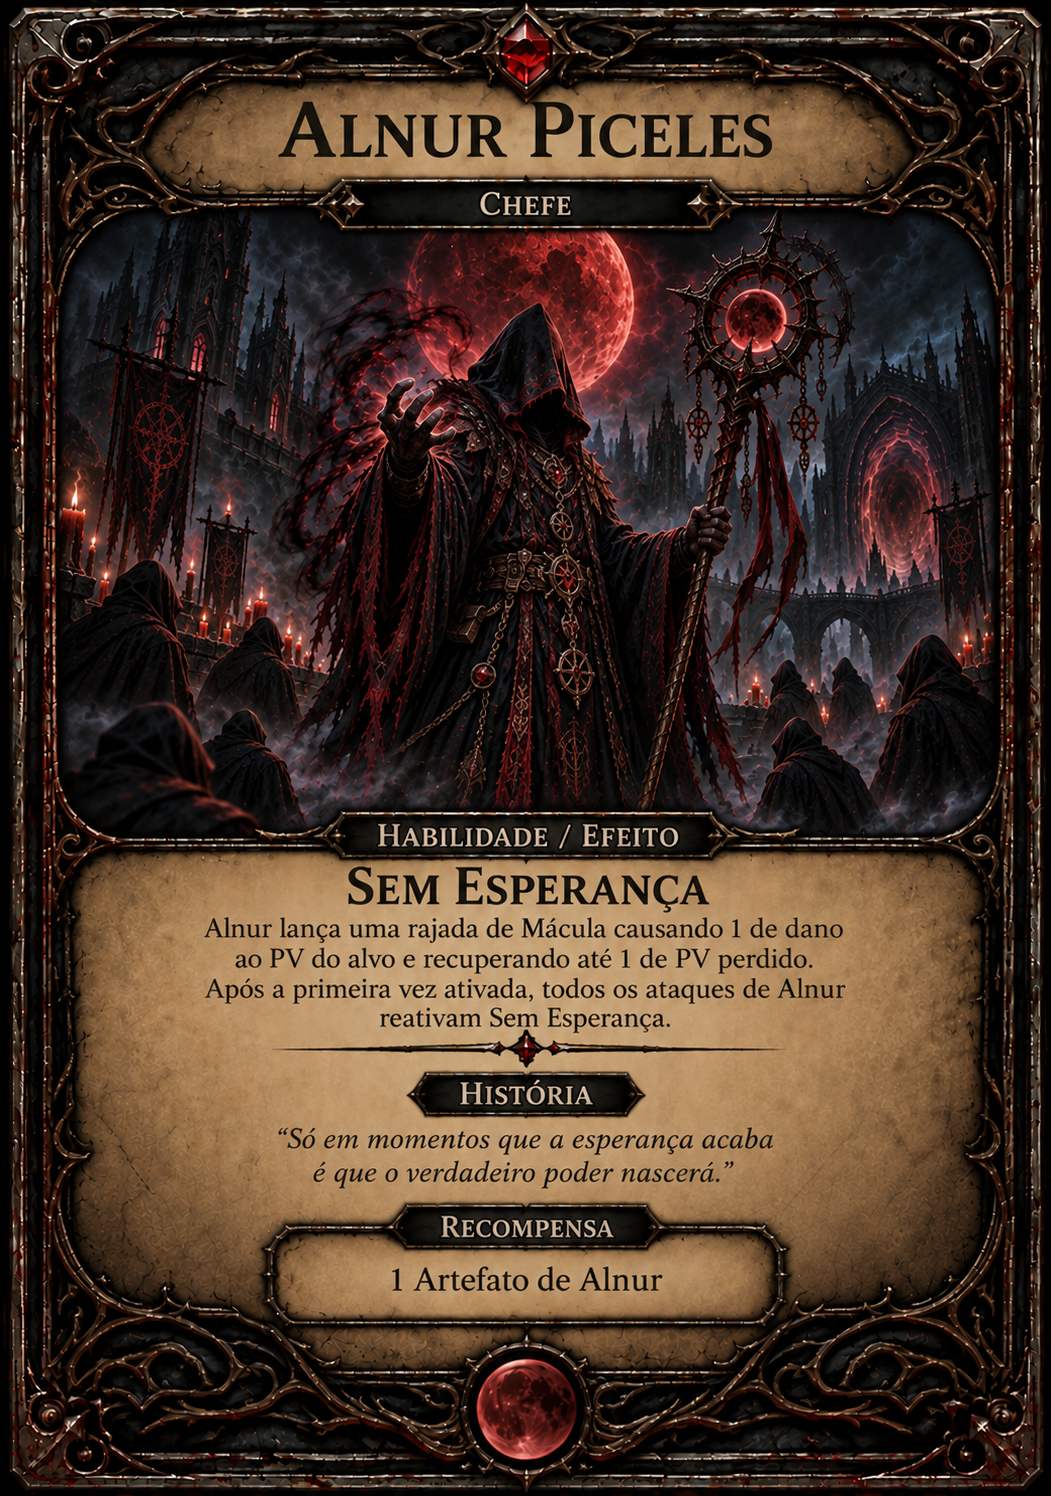
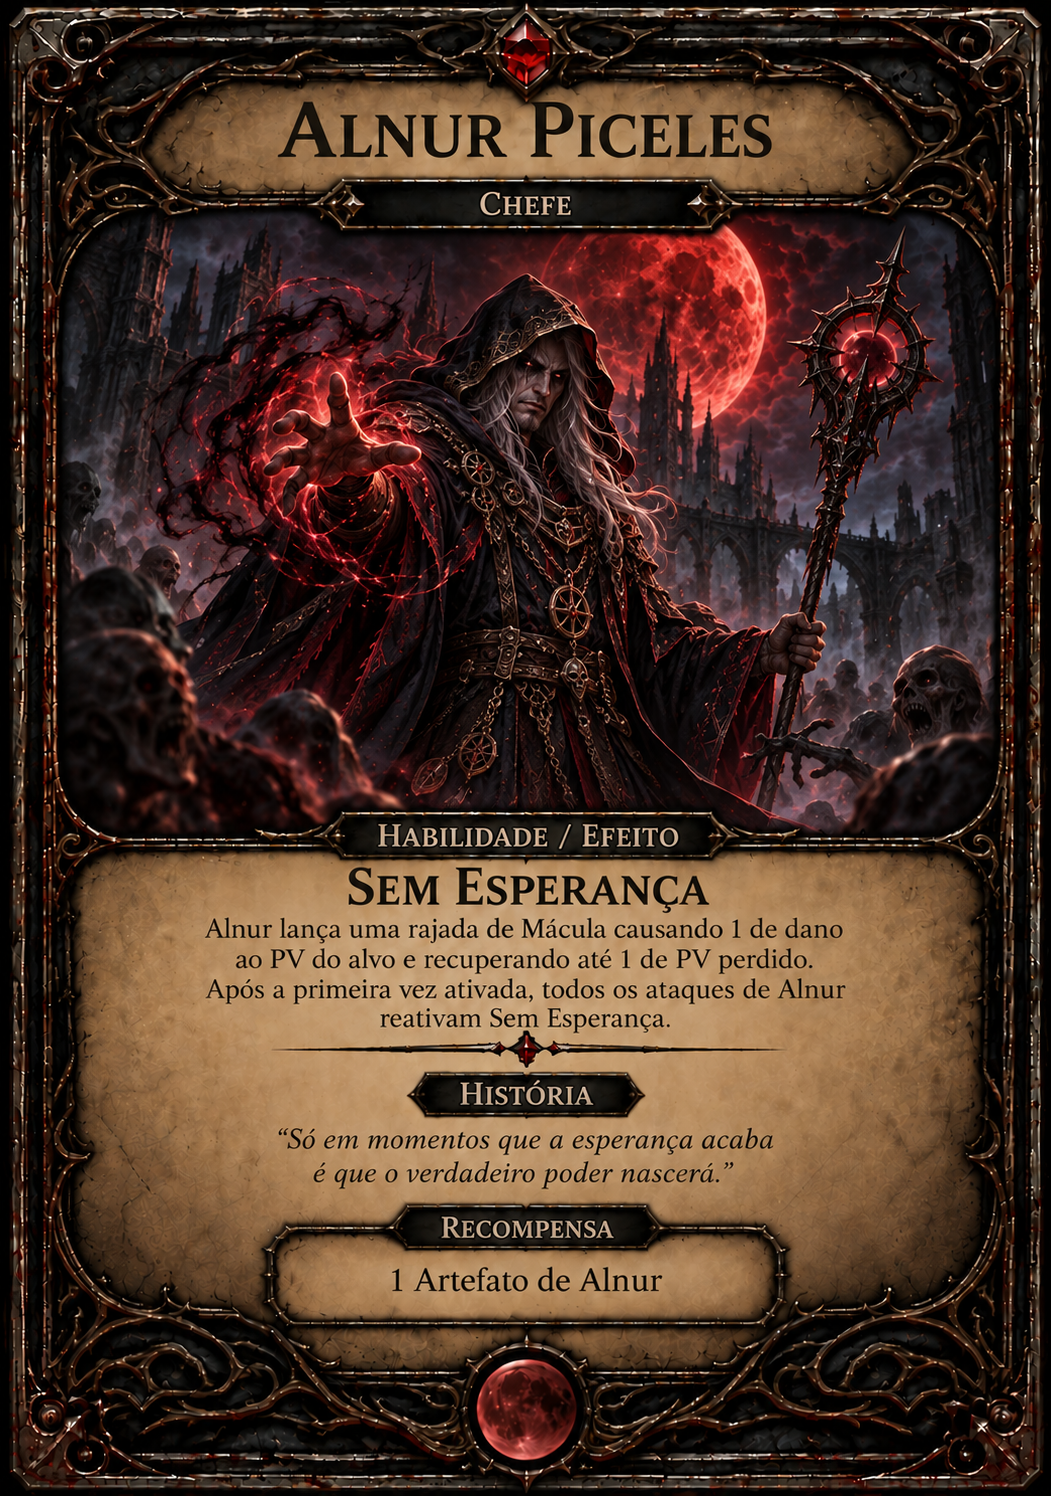
Alteração Alnur e Descobertas

diff --git a/ato1.html b/ato1.html
@@ -2356,10 +2356,10 @@
                 <div class="menu-item-container">
                     <button class="btn-menu-rodape" onclick="alternarDropup(event, 'drop-discipulos')">Alnur e Discípulos</button>
                     <ul id="drop-discipulos" class="lista-dropup">
-                        <li onclick="mostrarImagemGrupo('./assets/cartas/Alnur e Discípulos/Alnur.png')">Alnur</li>
-                        <li onclick="mostrarImagemGrupo('./assets/cartas/Alnur e Discípulos/Aliatrix.jpg')">Aliatrix</li>
-                        <li onclick="mostrarImagemGrupo('./assets/cartas/Alnur e Discípulos/Delgron.jpg')">Delgron</li>
-                        <li onclick="mostrarImagemGrupo('./assets/cartas/Alnur e Discípulos/Ravandra.jpg')">Ravandra</li>
+                        <li onclick="mostrarImagemGrupo('./assets/ATO1/cartas/Alnur e Discípulos/Alnur.png')">Alnur</li>
+                        <li onclick="mostrarImagemGrupo('./assets/ATO1/cartas/Alnur e Discípulos/Aliatrix.jpg')">Aliatrix</li>
+                        <li onclick="mostrarImagemGrupo('./assets/ATO1/cartas/Alnur e Discípulos/Delgron.jpg')">Delgron</li>
+                        <li onclick="mostrarImagemGrupo('./assets/ATO1/cartas/Alnur e Discípulos/Ravandra.jpg')">Ravandra</li>
 
                     </ul>
                 </div>
@@ -2405,24 +2405,24 @@
                 <div class="menu-item-container">
                     <button class="btn-menu-rodape" onclick="alternarDropup(event, 'drop-Descobertas')">Descobertas</button>
                     <ul id="drop-Descobertas" class="lista-dropup">
-                        <li onclick="mostrarImagemGrupo('./assets/cartas/Descobertas/bau_encantado.png')">Baú Encantado</li>
-                        <li onclick="mostrarImagemGrupo('./assets/cartas/Descobertas/caes_selvagens.png')">Cães Selvagens</li>
-                        <li onclick="mostrarImagemGrupo('./assets/cartas/Descobertas/carga_na_estrada.png')">Carga na Estrada</li>
-                        <li onclick="mostrarImagemGrupo('./assets/cartas/Descobertas/caverna_inexplorada.png')">Caverna Inexplorada</li>
-                        <li onclick="mostrarImagemGrupo('./assets/cartas/Descobertas/caverna_submersa.png')">Caverna Submersa</li>
-                        <li onclick="mostrarImagemGrupo('./assets/cartas/Descobertas/covil_de_monstros.png')">Covil de Monstros</li>
-                        <li onclick="mostrarImagemGrupo('./assets/cartas/Descobertas/deslizamento.png')">Deslizamento</li>
-                        <li onclick="mostrarImagemGrupo('./assets/cartas/Descobertas/emboscada.png')">Emboscada</li>
-                        <li onclick="mostrarImagemGrupo('./assets/cartas/Descobertas/encontro_com_a_macula.png')">Encontro com a Mácula</li>
-                        <li onclick="mostrarImagemGrupo('./assets/cartas/Descobertas/flanquear_a_rota.png')">Flanquear a Rota</li>
-                        <li onclick="mostrarImagemGrupo('./assets/cartas/Descobertas/grande_estalagem.png')">Grande Estalagem</li>
-                        <li onclick="mostrarImagemGrupo('./assets/cartas/Descobertas/jardins_suspensos.png')">Jardins Suspensos</li>
-                        <li onclick="mostrarImagemGrupo('./assets/cartas/Descobertas/Local Amaldiçoado.png')">Local Amaldiçoado</li>
-                        <li onclick="mostrarImagemGrupo('./assets/cartas/Descobertas/Mantimentos Enterrados.png')">Mantimentos Enterrados</li>                        
-                        <li onclick="mostrarImagemGrupo('./assets/cartas/Descobertas/Oasis.png')">Oasis</li>
-                        <li onclick="mostrarImagemGrupo('./assets/cartas/Descobertas/Perseguido.png')">Perseguido</li>
-                        <li onclick="mostrarImagemGrupo('./assets/cartas/Descobertas/Rota Indesejada.png')">Rota Indesejada</li>
-                        <li onclick="mostrarImagemGrupo('./assets/cartas/Descobertas/Templo Sagrado.png')">Templo Sagrado</li>
+                        <li onclick="mostrarImagemGrupo('./assets/ATO1/cartas/Descobertas/bau_encantado.png')">Baú Encantado</li>
+                        <li onclick="mostrarImagemGrupo('./assets/ATO1/cartas/Descobertas/caes_selvagens.png')">Cães Selvagens</li>
+                        <li onclick="mostrarImagemGrupo('./assets/ATO1/cartas/Descobertas/carga_na_estrada.png')">Carga na Estrada</li>
+                        <li onclick="mostrarImagemGrupo('./assets/ATO1/cartas/Descobertas/caverna_inexplorada.png')">Caverna Inexplorada</li>
+                        <li onclick="mostrarImagemGrupo('./assets/ATO1/cartas/Descobertas/caverna_submersa.png')">Caverna Submersa</li>
+                        <li onclick="mostrarImagemGrupo('./assets/ATO1/cartas/Descobertas/covil_de_monstros.png')">Covil de Monstros</li>
+                        <li onclick="mostrarImagemGrupo('./assets/ATO1/cartas/Descobertas/deslizamento.png')">Deslizamento</li>
+                        <li onclick="mostrarImagemGrupo('./assets/ATO1/cartas/Descobertas/emboscada.png')">Emboscada</li>
+                        <li onclick="mostrarImagemGrupo('./assets/ATO1/cartas/Descobertas/encontro_com_a_macula.png')">Encontro com a Mácula</li>
+                        <li onclick="mostrarImagemGrupo('./assets/ATO1/cartas/Descobertas/flanquear_a_rota.png')">Flanquear a Rota</li>
+                        <li onclick="mostrarImagemGrupo('./assets/ATO1/cartas/Descobertas/grande_estalagem.png')">Grande Estalagem</li>
+                        <li onclick="mostrarImagemGrupo('./assets/ATO1/cartas/Descobertas/jardins_suspensos.png')">Jardins Suspensos</li>
+                        <li onclick="mostrarImagemGrupo('./assets/ATO1/cartas/Descobertas/Local Amaldiçoado.png')">Local Amaldiçoado</li>
+                        <li onclick="mostrarImagemGrupo('./assets/ATO1/cartas/Descobertas/Mantimentos Enterrados.png')">Mantimentos Enterrados</li>                        
+                        <li onclick="mostrarImagemGrupo('./assets/ATO1/cartas/Descobertas/Oasis.png')">Oasis</li>
+                        <li onclick="mostrarImagemGrupo('./assets/ATO1/cartas/Descobertas/Perseguido.png')">Perseguido</li>
+                        <li onclick="mostrarImagemGrupo('./assets/ATO1/cartas/Descobertas/Rota Indesejada.png')">Rota Indesejada</li>
+                        <li onclick="mostrarImagemGrupo('./assets/ATO1/cartas/Descobertas/Templo Sagrado.png')">Templo Sagrado</li>
                         
                     </ul>
                 </div>
